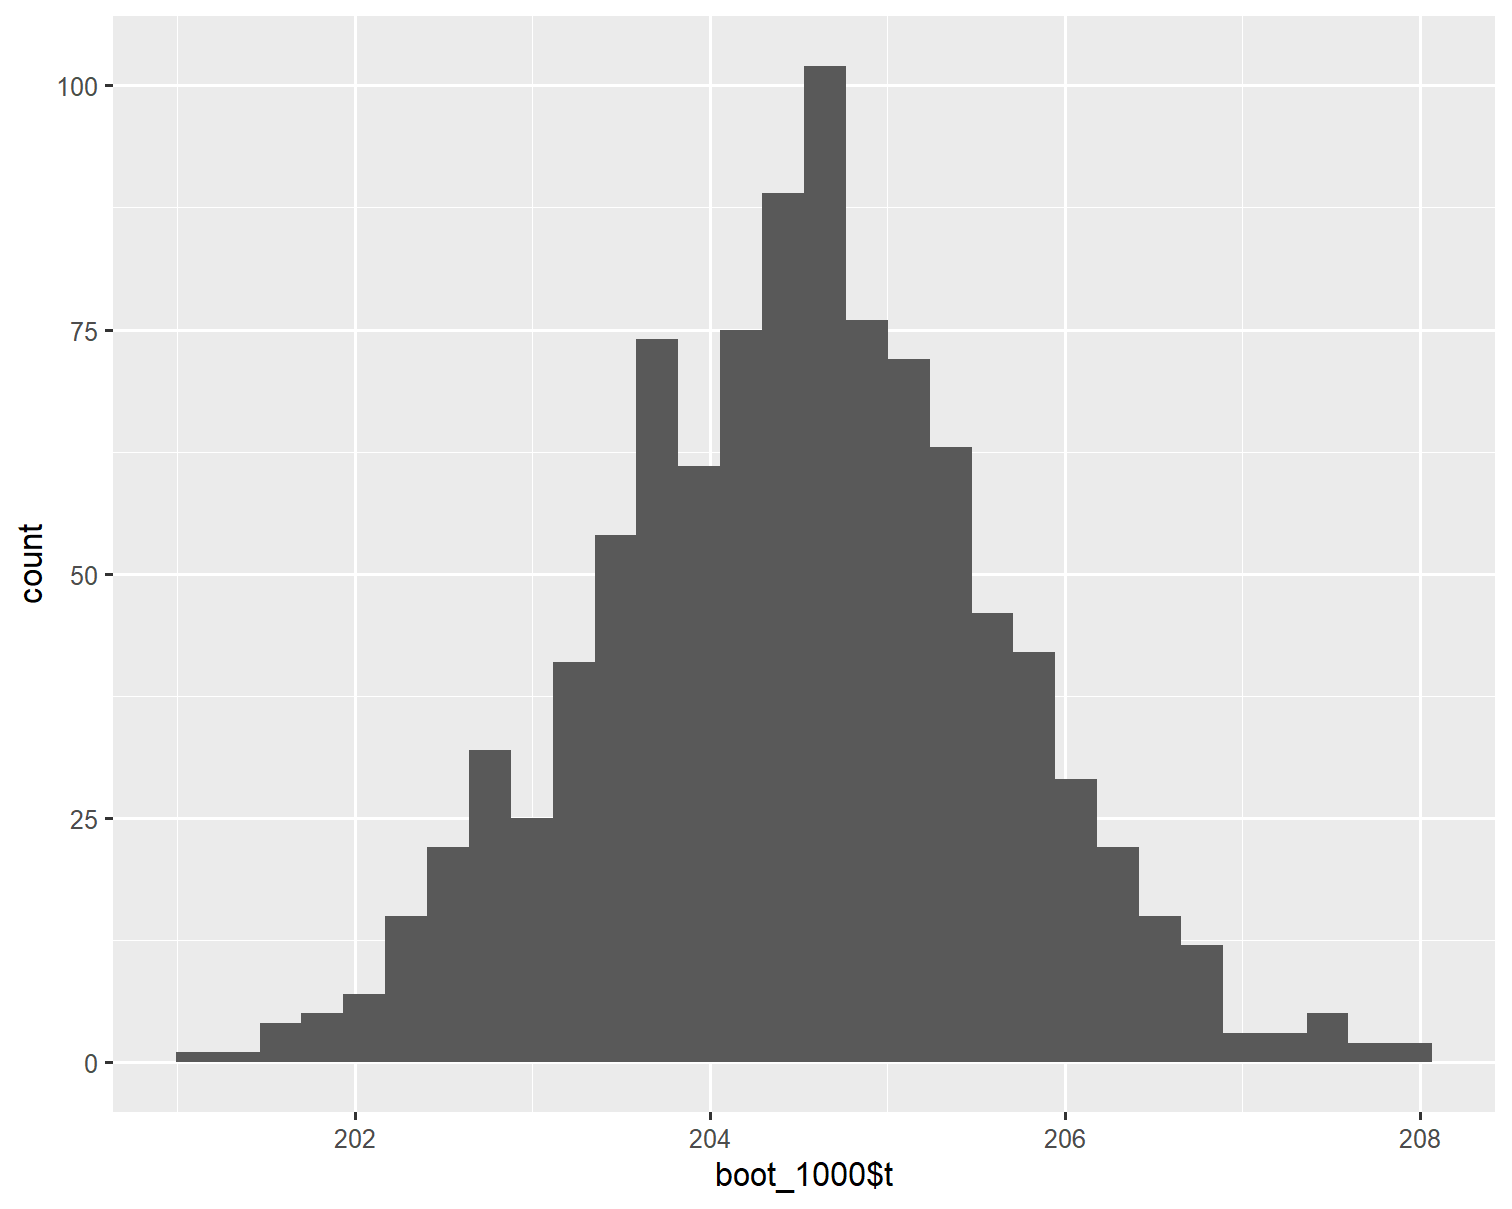
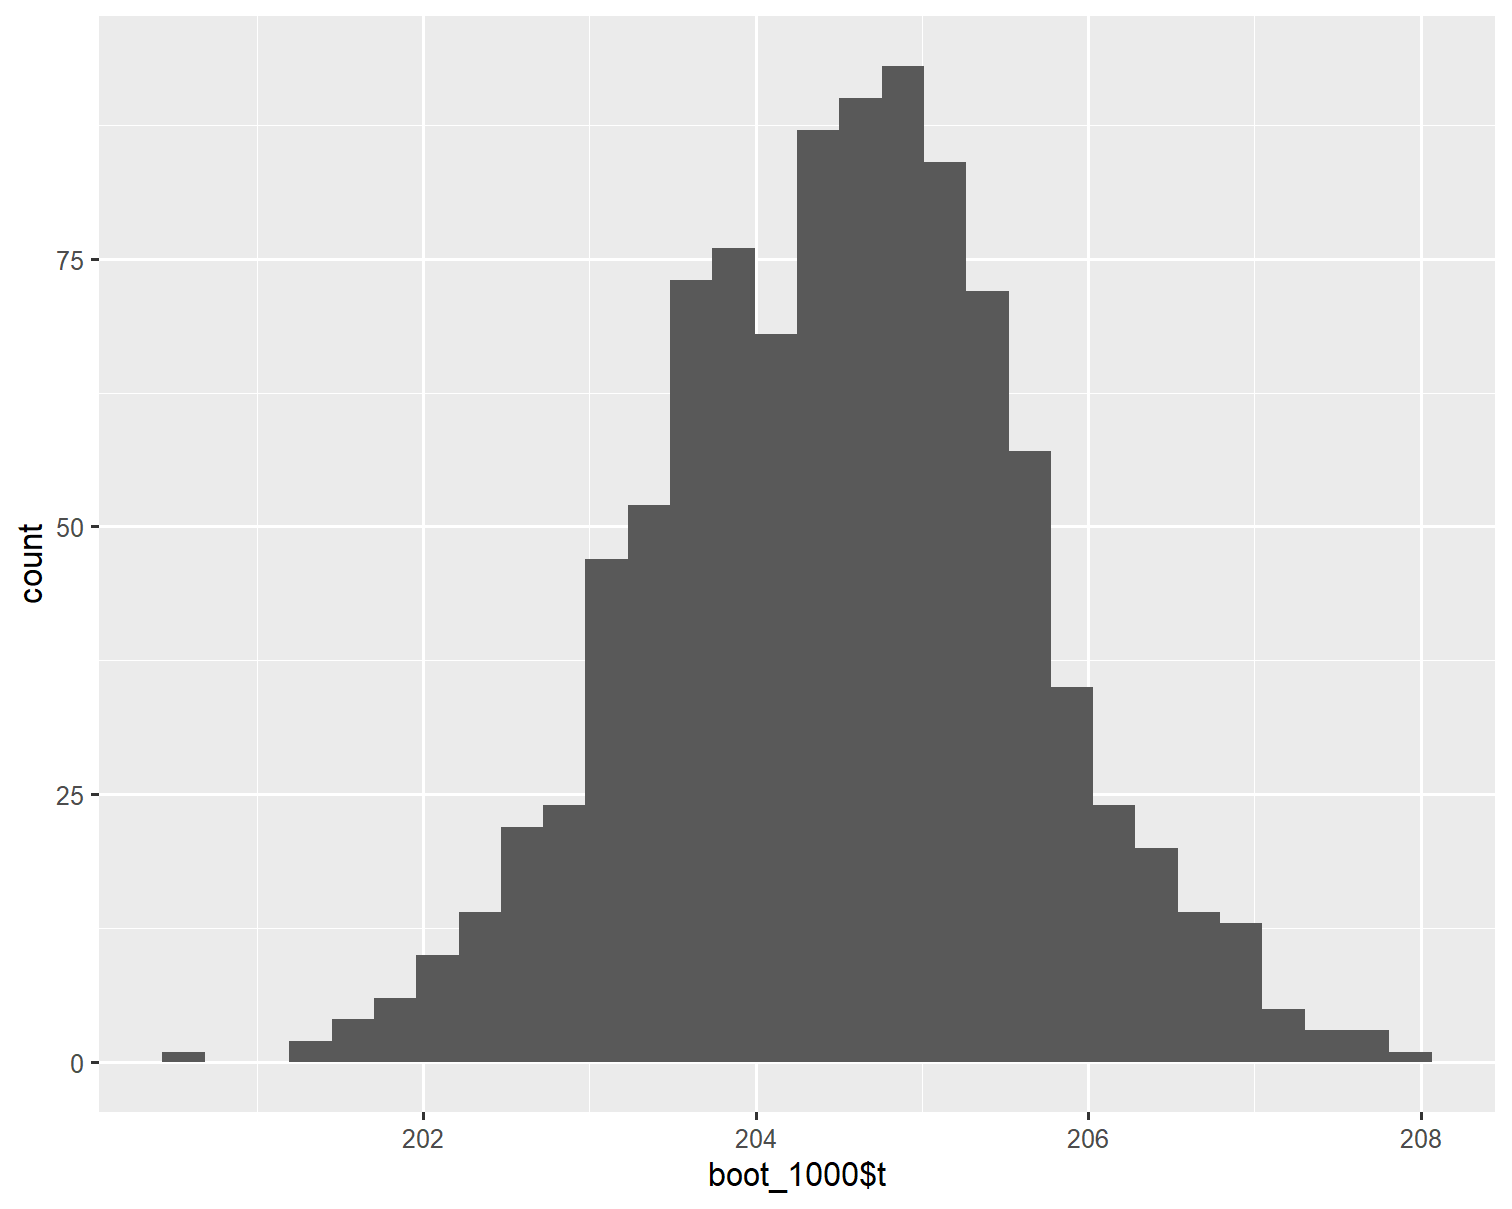
Added links to slides

diff --git a/slides/Probability.html b/slides/Probability.html
@@ -4,7 +4,7 @@
     <title>Probability</title>
     <meta charset="utf-8" />
     <meta name="author" content="Philip Leftwich" />
-    <meta name="date" content="2022-09-13" />
+    <meta name="date" content="2022-09-17" />
     <script src="libs/header-attrs/header-attrs.js"></script>
     <link href="libs/remark-css/default.css" rel="stylesheet" />
     <link rel="stylesheet" href="css/my-theme.css" type="text/css" />
@@ -200,7 +200,13 @@ class: center, middle, inverse
 Sullivan, GM and R Feinn (2012). [Using effect size - or why the p-value is not enough.](https://www.ncbi.nlm.nih.gov/pmc/articles/PMC3444174/#i1949-8357-4-3-279-Kline1) 
 Journal of Graduate Medical Education 4(3): 279–282
 
-###“Statistical significance is the least interesting thing about the results. You should describe the results in terms of measures of magnitude – not just does a treatment affect people, but how much does it affect them.”
+Goodman(2011).[A dirty dozen: twelve p-value misconceptions](https://doi.org/10.1053/j.seminhematol.2008.04.003) Seminars in Hematology
+
+Laakens [Understanding common misconceptions about p-values](https://daniellakens.blogspot.com/2017/12/understanding-common-misconceptions.html?m=1)
+
+###“Statistical significance is the least interesting thing about the results. You should describe the results in terms of measures of magnitude – not just does a treatment affect people, but how much does it affect them.” 
+
+### -Gene V. Glass
 
     </textarea>
 <style data-target="print-only">@media screen {.remark-slide-container{display:block;}.remark-slide-scaler{box-shadow:none;}}</style>

diff --git a/slides/Confidence_intervals.html b/slides/Confidence_intervals.html
@@ -180,11 +180,11 @@ Do you want to know the range within which you will capture the mean...
 The Confidence level (C) is the inverse of the significance level.
 
 $$
-\alpha = 1 - C
+\huge\alpha = 1 - C
 $$
 ---
 
-&lt;img src="images/confidence-interval-area.png" title=" Confidence Intervals" alt=" Confidence Intervals" width="100%" /&gt;
+&lt;img src="images/confidence-interval-area.png" title=" Confidence Intervals" alt=" Confidence Intervals" width="90%" /&gt;
 
 ---
 
@@ -280,8 +280,8 @@ boot_1000
 ## 
 ## 
 ## Bootstrap Statistics :
-##     original     bias    std. error
-## t1*  204.506 -0.0224881    1.121424
+##     original      bias    std. error
+## t1*  204.506 0.002630952    1.124915
 ```
 
 ]
@@ -326,7 +326,7 @@ boot.ci(boot_1000,
 ## 
 ## Intervals : 
 ## Level     Percentile     
-## 95%   (202.3, 206.7 )  
+## 95%   (202.2, 206.8 )  
 ## Calculations and Intervals on Original Scale
 ```
 
